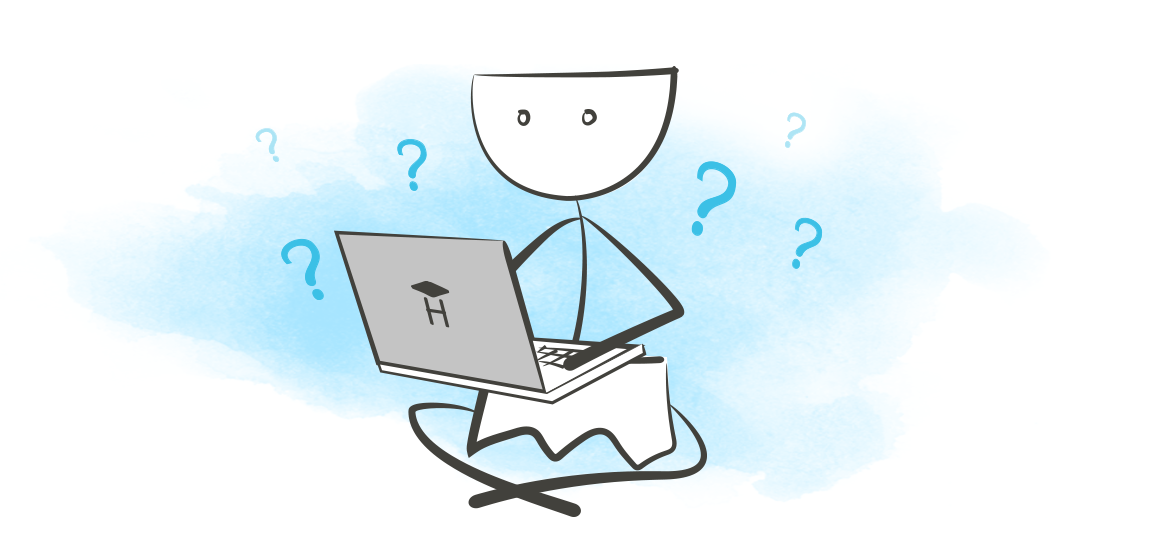
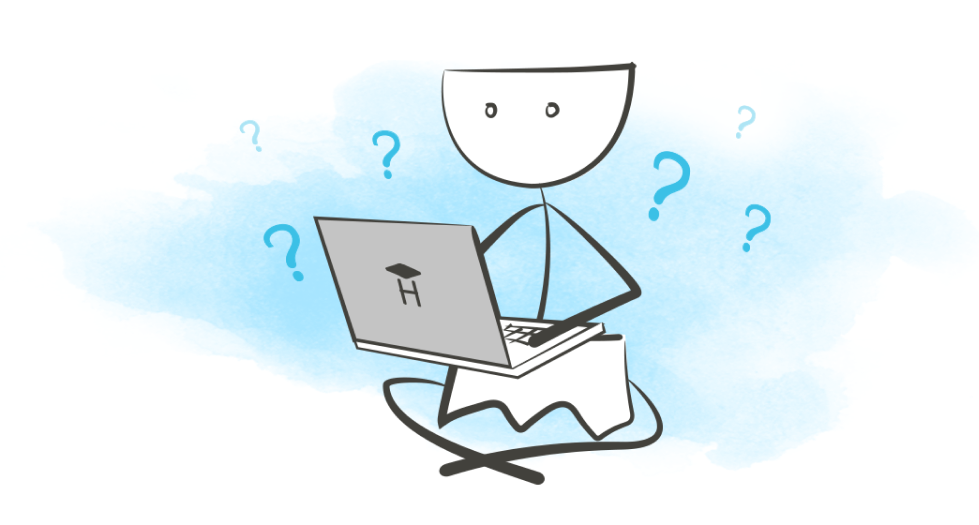
improve header styles

diff --git a/src/styles/style.css b/src/styles/style.css
@@ -102,7 +102,7 @@ h6 {
 
 .hero-wrapper {
   position: relative;
-  margin-bottom: 15px;
+  margin-bottom: 8px;
 }
 
 .hero-title {
@@ -113,10 +113,10 @@ h6 {
 
 .hero-img {
   position: absolute;
-  top: -80px;
-  right: -270px;
+  top: -49px;
+  right: -166px;
   z-index: 5;
-  width: 1083px;
+  width: 979px;
   height: 525px;
   background: url('../images/main.png') center center no-repeat;
 }
